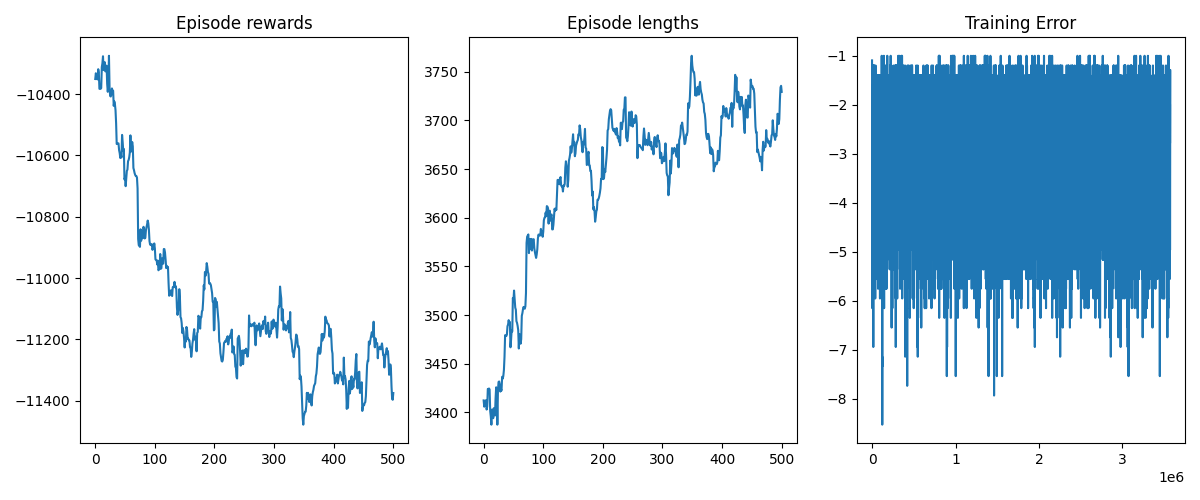
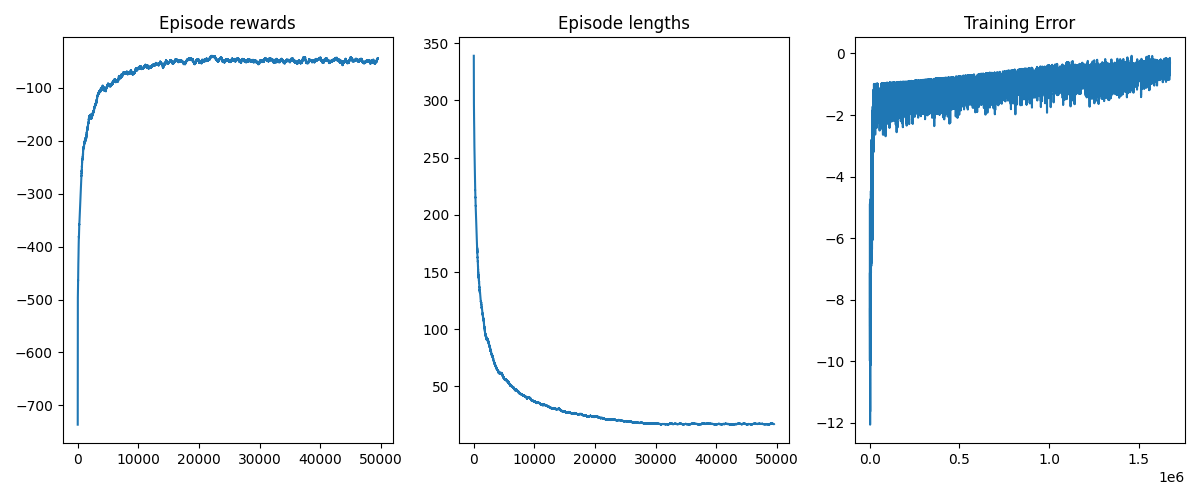
fix(lab6): critical bug

diff --git a/lab6/main.py b/lab6/main.py
@@ -1,147 +1,142 @@
-from collections import defaultdict
 import gymnasium as gym
 import numpy as np
 from tqdm import tqdm
+
+
+##############################################
+
+seed = 18
+np.random.seed(seed)
+
+##############################################
+
+
+class QLearner:
+    def __init__(
+        self,
+        #
+        state_space: int,
+        action_space: int,
+        #
+        learning_rate: float,
+        discount: float,
+        #
+        epsilon: float,
+        epsilon_decay_fn=None,
+    ):
+        """Init a Q-table, Save necessary Params."""
+        self.state_space = state_space
+        self.action_space = action_space
+        self.lr = learning_rate
+        self.discount = discount
+        self.epsilon = epsilon
+        self.epsilon_decay_fn = epsilon_decay_fn
+        self.training_error = []
+        self.reset()
+
+    def update(self, state, action: int, reward: float, new_state):
+        """Update Value with Temporal Difference Approach."""
+        former_q = self.table[state, action]
+        future_q = np.max(self.table[new_state, :])
+
+        # Updating Policy: discount * max future Q
+        temp_diff_tgt = reward + (self.discount * future_q)
+        temp_diff_err = temp_diff_tgt - former_q
+        self.training_error.append(temp_diff_err)
+
+        new_q = former_q + self.lr * temp_diff_err
+
+        self.table[state, action] = new_q  # update table
+        if self.epsilon_decay_fn is not None:  # decay epsilon
+            self.epsilon = self.epsilon_decay_fn(self.epsilon)
+
+    def reset(self):
+        """Null the Q-table."""
+        self.table = np.zeros((self.state_space.n, self.action_space.n))
+
+    def choose_action(self, state):
+        """Acting Policy: Epsilon-Greedy Strategy."""
+        if np.random.random() < self.epsilon:
+            action = self.action_space.sample()
+        else:
+            action = int(np.argmax(self.table[state, :]))
+        return action
+
+
+##############################################
+
+n_episodes = 50_000
+learning_rate = 0.001
+discount = 0.95
+
+start_epsilon = 1.0
+epsilon_decay = start_epsilon / (n_episodes / 2)
+final_epsilon = 0.1
+
+
+epsilon_decay_fn = lambda epsilon: max(final_epsilon, epsilon - epsilon_decay)
+
+
+env = gym.make("CliffWalking-v0")
+env = gym.wrappers.RecordEpisodeStatistics(env, buffer_length=n_episodes)
+
+agent = QLearner(
+    env.observation_space,
+    env.action_space,
+    #
+    learning_rate,
+    discount,
+    #
+    start_epsilon,
+    epsilon_decay_fn=epsilon_decay_fn,
+)
+
+
+for episode in tqdm(range(n_episodes)):
+    state, _ = env.reset()
+    done = False
+
+    while not done:
+        action = agent.choose_action(state)
+
+        new_state, reward, terminated, truncated, _ = env.step(action)
+        agent.update(state, action, reward, new_state)
+
+        done = terminated or truncated
+        state = new_state
+
+
+##############################################
+
 from matplotlib import pyplot as plt
 
 
-class BlackjackAgent:
-    def __init__(
-        self,
-        env: gym.Env,
-        learning_rate: float,
-        initial_epsilon: float,
-        epsilon_decay: float,
-        final_epsilon: float,
-        discount_factor: float = 0.95,
-    ):
-        """Initialize a Reinforcement Learning agent with an empty dictionary
-        of state-action values (q_values), a learning rate and an epsilon.
-
-        Args:
-            env: The training environment
-            learning_rate: The learning rate
-            initial_epsilon: The initial epsilon value
-            epsilon_decay: The decay for epsilon
-            final_epsilon: The final epsilon value
-            discount_factor: The discount factor for computing the Q-value
-        """
-        self.env = env
-        self.q_values = defaultdict(lambda: np.zeros(env.action_space.n))
-
-        self.lr = learning_rate
-        self.discount_factor = discount_factor
-
-        self.epsilon = initial_epsilon
-        self.epsilon_decay = epsilon_decay
-        self.final_epsilon = final_epsilon
-
-        self.training_error = []
-
-    def get_action(self, obs: tuple[int, int, bool]) -> int:
-        """
-        Returns the best action with probability (1 - epsilon)
-        otherwise a random action with probability epsilon to ensure exploration.
-        """
-        # with probability epsilon return a random action to explore the environment
-        if np.random.random() < self.epsilon:
-            return self.env.action_space.sample()
-        # with probability (1 - epsilon) act greedily (exploit)
-        else:
-            return int(np.argmax(self.q_values[obs]))
-
-    def update(
-        self,
-        obs: tuple[int, int, bool],
-        action: int,
-        reward: float,
-        terminated: bool,
-        next_obs: tuple[int, int, bool],
-    ):
-        """Updates the Q-value of an action."""
-        former_q_value = self.q_values[obs][action]
-        future_q_value = (not terminated) * np.max(self.q_values[next_obs])
-        temporal_difference = (
-            reward + self.discount_factor * future_q_value - former_q_value
-        )
-
-        self.q_values[obs][action] = (
-            former_q_value + self.lr * temporal_difference
-        )  # updates the q-table
-        self.training_error.append(temporal_difference)  # updates the error array
-
-    def decay_epsilon(self):
-        self.epsilon = max(self.final_epsilon, self.epsilon - self.epsilon_decay)
+def get_moving_avgs(arr, window, convolution_mode):
+    return (
+        np.convolve(np.array(arr).flatten(), np.ones(window), mode=convolution_mode)
+        / window
+    )
 
 
-# hyperparameters
-learning_rate = 0.01  # to converge to the optimal policy 0.001
-n_episodes = 100_000  # to converge to the optimal policy 10x
-start_epsilon = 1.0
-epsilon_decay = start_epsilon / (n_episodes / 2)  # reduce the exploration over time
-final_epsilon = 0.1
+# Smooth over a 500 episode window
+rolling_length = 500
+fig, axs = plt.subplots(ncols=3, figsize=(12, 5))
 
-env = gym.make("Blackjack-v1", sab=False)
-env = gym.wrappers.RecordEpisodeStatistics(env, buffer_length=n_episodes)
+axs[0].set_title("Episode rewards")
+reward_moving_average = get_moving_avgs(env.return_queue, rolling_length, "valid")
+axs[0].plot(range(len(reward_moving_average)), reward_moving_average)
 
+axs[1].set_title("Episode lengths")
+length_moving_average = get_moving_avgs(env.length_queue, rolling_length, "valid")
+axs[1].plot(range(len(length_moving_average)), length_moving_average)
 
-agent = BlackjackAgent(
-    env=env,
-    learning_rate=learning_rate,
-    initial_epsilon=start_epsilon,
-    epsilon_decay=epsilon_decay,
-    final_epsilon=final_epsilon,
+axs[2].set_title("Training Error")
+training_error_moving_average = get_moving_avgs(
+    agent.training_error, rolling_length, "same"
 )
-
-for episode in tqdm(range(n_episodes)):
-    obs, info = env.reset()
-    done = False
-
-    # play one episode
-    while not done:
-        action = agent.get_action(obs)
-        next_obs, reward, terminated, truncated, info = env.step(action)
-
-        # update the agent
-        agent.update(obs, action, reward, terminated, next_obs)
-
-        # update if the environment is done and the current obs
-        done = terminated or truncated
-        obs = next_obs
-
-    agent.decay_epsilon()
-
-print(f"Episode time taken: {env.time_queue}")
-print(f"Episode total rewards: {env.return_queue}")
-print(f"Episode lengths: {env.length_queue}")
-
-##############################################################################################
+axs[2].plot(range(len(training_error_moving_average)), training_error_moving_average)
 
 
-# def get_moving_avgs(arr, window, convolution_mode):
-#     return (
-#         np.convolve(np.array(arr).flatten(), np.ones(window), mode=convolution_mode)
-#         / window
-#     )
-
-
-# # Smooth over a 500 episode window
-# rolling_length = 500
-# fig, axs = plt.subplots(ncols=3, figsize=(12, 5))
-
-# axs[0].set_title("Episode rewards")
-# reward_moving_average = get_moving_avgs(env.return_queue, rolling_length, "valid")
-# axs[0].plot(range(len(reward_moving_average)), reward_moving_average)
-
-# axs[1].set_title("Episode lengths")
-# length_moving_average = get_moving_avgs(env.length_queue, rolling_length, "valid")
-# axs[1].plot(range(len(length_moving_average)), length_moving_average)
-
-# axs[2].set_title("Training Error")
-# training_error_moving_average = get_moving_avgs(
-#     agent.training_error, rolling_length, "same"
-# )
-# axs[2].plot(range(len(training_error_moving_average)), training_error_moving_average)
-# plt.tight_layout()
+plt.tight_layout()
 # plt.show()
-# plt.savefig("plot.png")
+plt.savefig("plot.png")

diff --git a/lab6/TODO.md b/lab6/TODO.md
@@ -1,0 +1,4 @@
+1. Add this cool vizualization https://gymnasium.farama.org/tutorials/training_agents/FrozenLake_tuto/#map-size-4-times-4
+2. Experiment with different initialization values and compare the training metrics (e.g. total reward, convergence rate, episode length, etc)
+3. Report interesting findings from your experiments
+4. Fix reproducability
